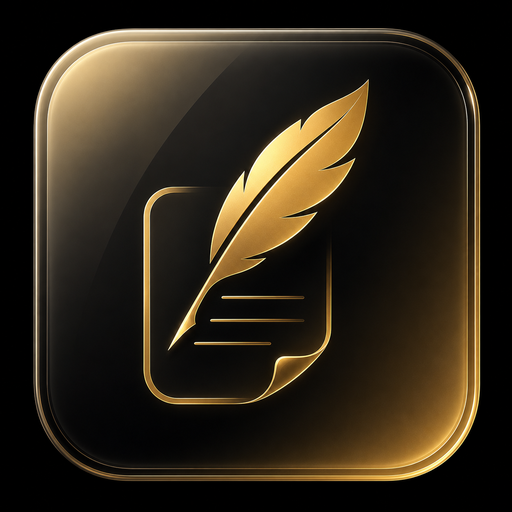
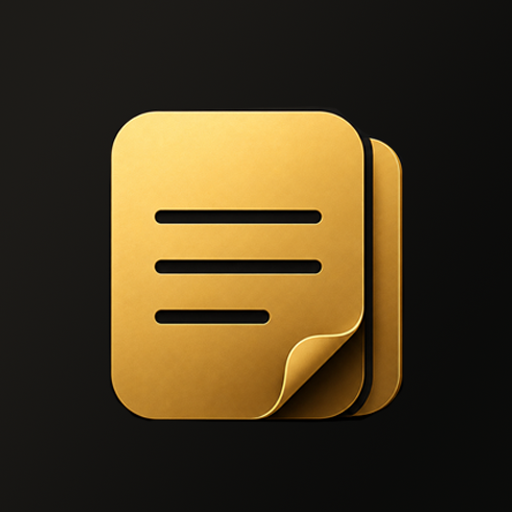
newnga

diff --git a/lib/screens/folders_screen.dart b/lib/screens/folders_screen.dart
@@ -1,4 +1,5 @@
 import 'package:flutter/material.dart';
+import 'package:shared_preferences/shared_preferences.dart';
 import 'package:uuid/uuid.dart';
 import '../models/folder.dart';
 import '../models/note.dart';
@@ -32,13 +33,32 @@ class _FoldersScreenState extends State<FoldersScreen> {
   List<Note> _searchResults = [];
   FolderSort _sort = FolderSort.newest;
   ViewMode _view = ViewMode.list;
+  static const _kFolderViewKey = 'folders_view_mode';
   bool _isSearching = false;
   bool _isLoading = true;
   final Set<String> _selected = {};
   bool _isSelecting = false;
 
   @override
-  void initState() { super.initState(); _loadFolders(); }
+  void initState() {
+    super.initState();
+    _loadViewMode();
+    _loadFolders();
+  }
+
+  Future<void> _loadViewMode() async {
+    final prefs = await SharedPreferences.getInstance();
+    final saved = prefs.getString(_kFolderViewKey);
+    if (saved != null && mounted) {
+      final idx = ViewMode.values.indexWhere((v) => v.name == saved);
+      if (idx != -1) setState(() => _view = ViewMode.values[idx]);
+    }
+  }
+
+  Future<void> _saveViewMode(ViewMode mode) async {
+    final prefs = await SharedPreferences.getInstance();
+    await prefs.setString(_kFolderViewKey, mode.name);
+  }
 
   @override
   void dispose() { _searchController.dispose(); super.dispose(); }
@@ -291,7 +311,11 @@ class _FoldersScreenState extends State<FoldersScreen> {
           IconButton(icon: const Icon(Icons.sort_rounded), onPressed: _showSortMenu),
           IconButton(
             icon: Icon(_view == ViewMode.list ? Icons.grid_view_rounded : _view == ViewMode.grid ? Icons.view_list_rounded : Icons.view_agenda_rounded),
-            onPressed: () => setState(() => _view = ViewMode.values[(_view.index + 1) % 3]),
+            onPressed: () {
+              final next = ViewMode.values[(_view.index + 1) % 3];
+              setState(() => _view = next);
+              _saveViewMode(next);
+            },
           ),
           PopupMenuButton<String>(
             icon: _buildAccountIcon(),

diff --git a/lib/screens/notes_list_screen.dart b/lib/screens/notes_list_screen.dart
@@ -1,4 +1,5 @@
 import 'package:flutter/material.dart';
+import 'package:shared_preferences/shared_preferences.dart';
 import 'package:intl/intl.dart';
 import 'package:uuid/uuid.dart';
 import '../models/folder.dart';
@@ -25,12 +26,31 @@ class _NotesListScreenState extends State<NotesListScreen> {
   List<Note> _notes = [];
   NoteSort _sort = NoteSort.newest;
   ViewMode _view = ViewMode.list;
+  static const _kNotesViewKey = 'notes_view_mode';
   bool _isLoading = true;
   final Set<String> _selected = {};
   bool _isSelecting = false;
 
   @override
-  void initState() { super.initState(); _loadNotes(); }
+  void initState() {
+    super.initState();
+    _loadViewMode();
+    _loadNotes();
+  }
+
+  Future<void> _loadViewMode() async {
+    final prefs = await SharedPreferences.getInstance();
+    final saved = prefs.getString(_kNotesViewKey);
+    if (saved != null && mounted) {
+      final idx = ViewMode.values.indexWhere((v) => v.name == saved);
+      if (idx != -1) setState(() => _view = ViewMode.values[idx]);
+    }
+  }
+
+  Future<void> _saveViewMode(ViewMode mode) async {
+    final prefs = await SharedPreferences.getInstance();
+    await prefs.setString(_kNotesViewKey, mode.name);
+  }
 
   Future<void> _loadNotes() async {
     setState(() => _isLoading = true);
@@ -205,7 +225,11 @@ class _NotesListScreenState extends State<NotesListScreen> {
           IconButton(icon: const Icon(Icons.sort_rounded), onPressed: _showSortMenu),
           IconButton(
             icon: Icon(_view == ViewMode.list ? Icons.grid_view_rounded : _view == ViewMode.grid ? Icons.view_list_rounded : Icons.view_agenda_rounded),
-            onPressed: () => setState(() => _view = ViewMode.values[(_view.index + 1) % 3]),
+            onPressed: () {
+              final next = ViewMode.values[(_view.index + 1) % 3];
+              setState(() => _view = next);
+              _saveViewMode(next);
+            },
           ),
           const SizedBox(width: 4),
         ],